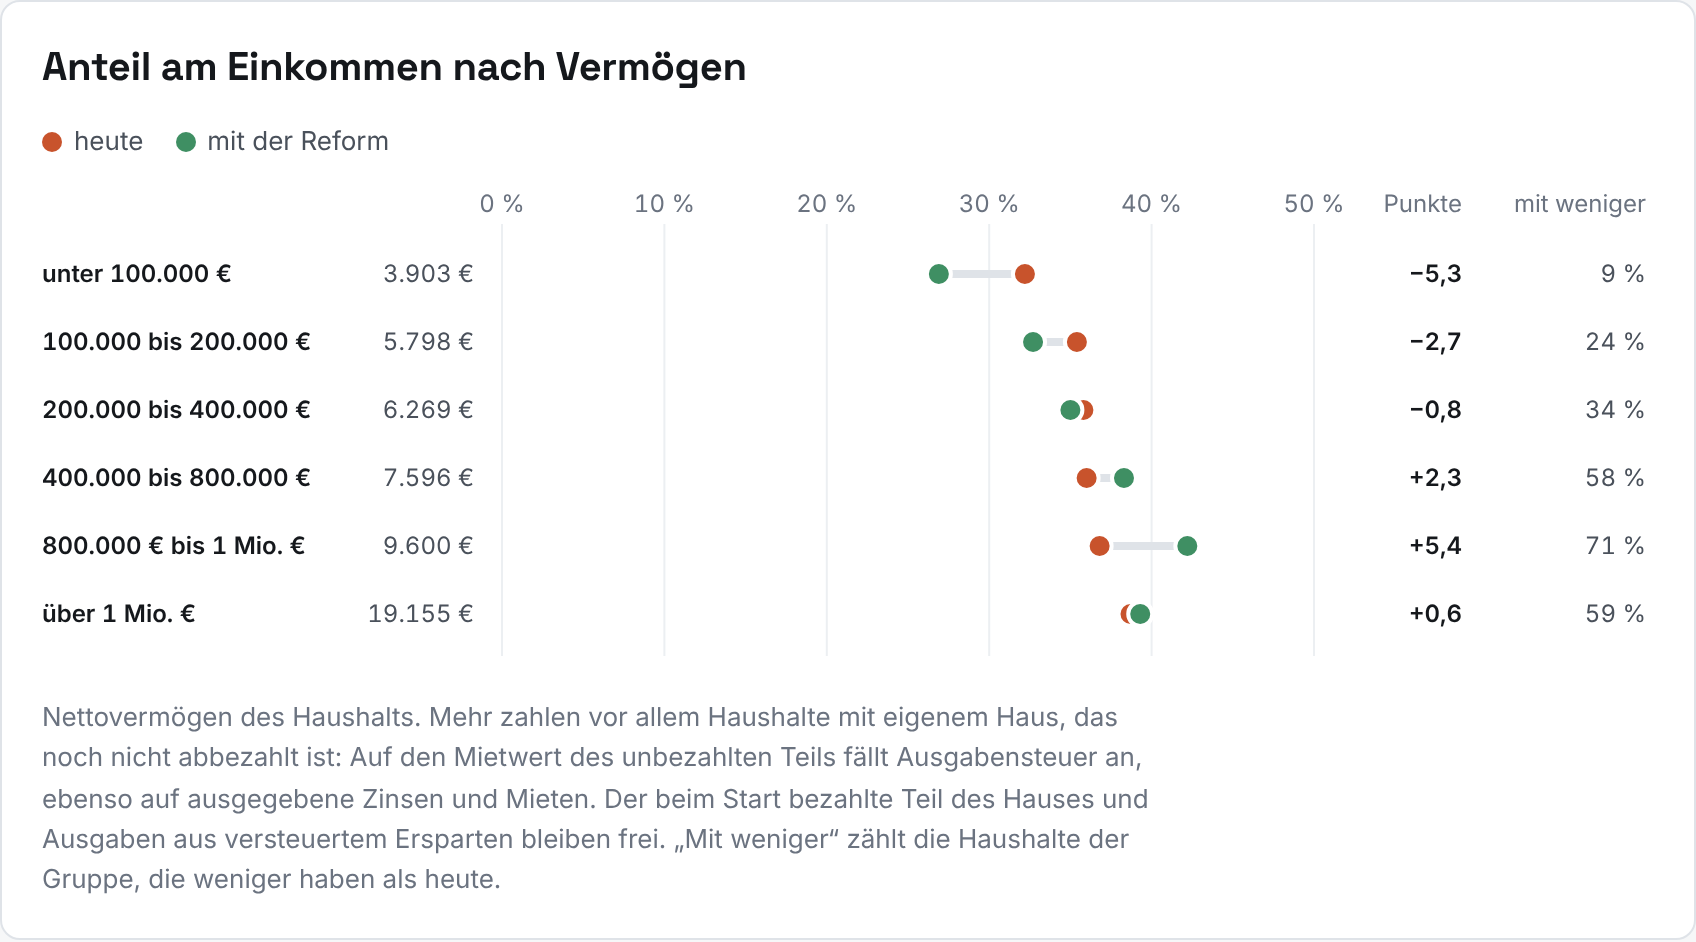
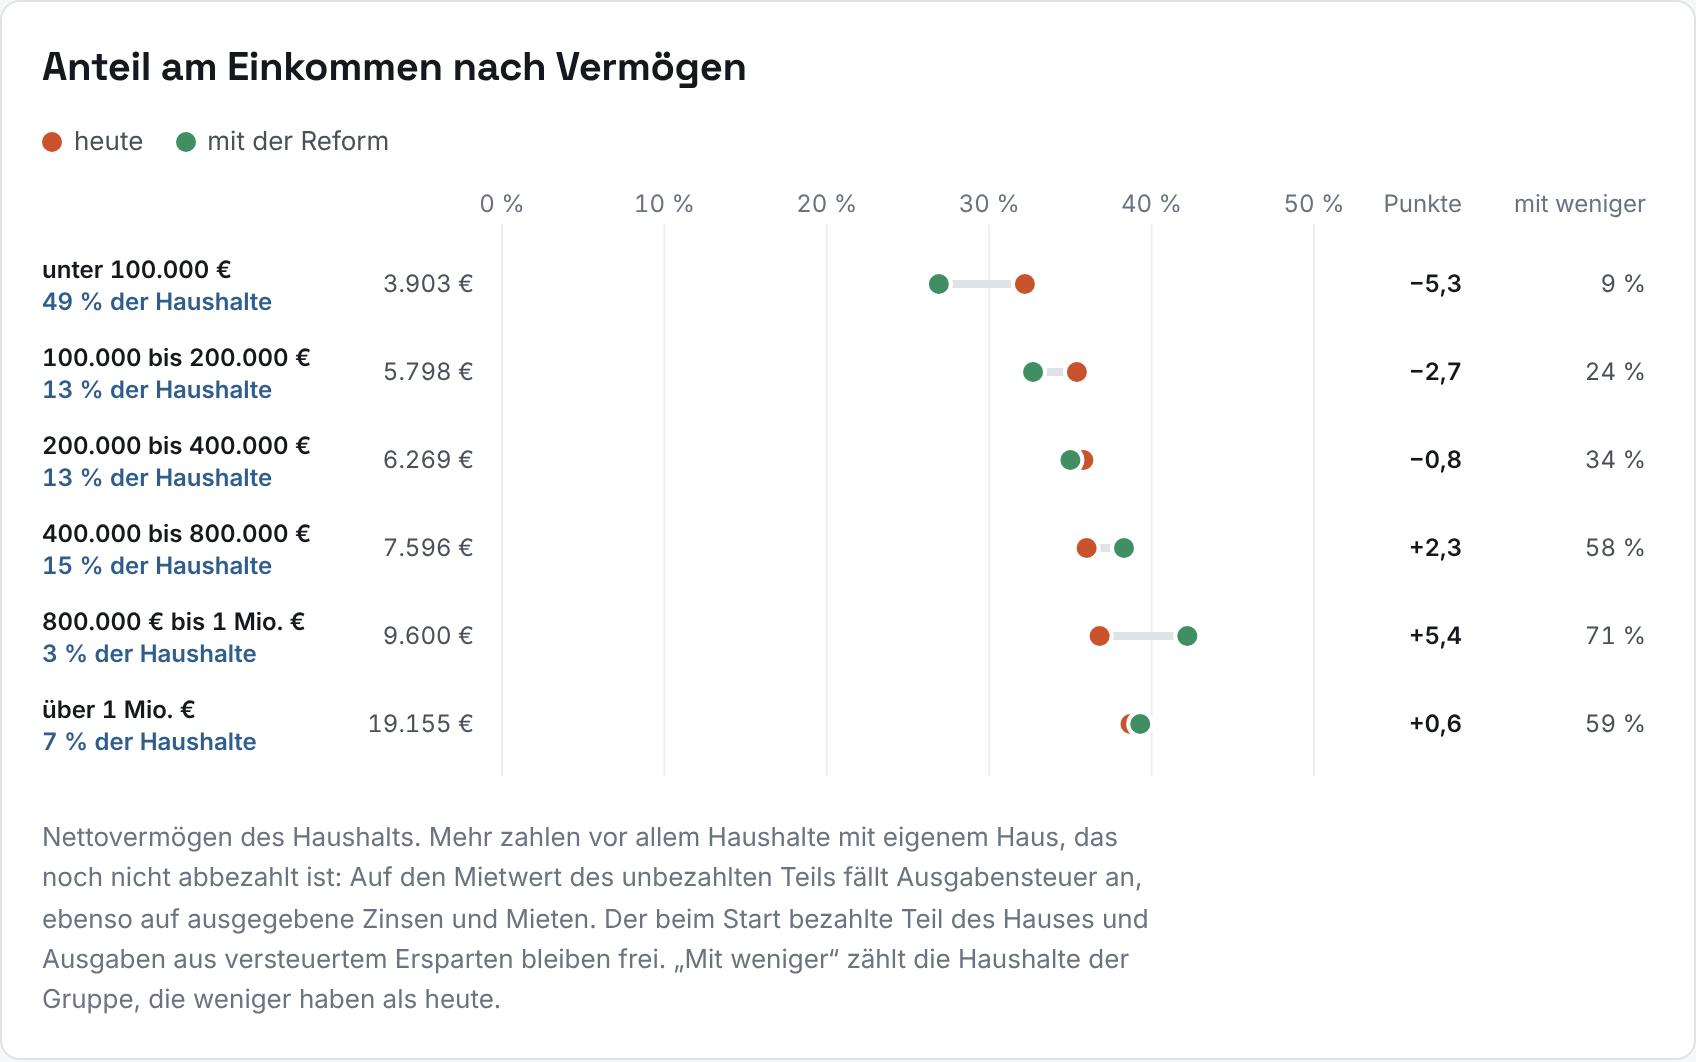
Vermögensgrafiken: Anteil der Haushalte unter jeder Gruppe
Unter jeder Vermögensgruppe steht in Blau, wie viel Prozent der Haushalte
dazugehören. Auf dem Handy heißt die Spaltenüberschrift kurz "Vermögen".

Claude-Session: https://claude.ai/code/session_012Y93VahXFS6g12MhaJDFsB

diff --git a/mikrosim/steuerlast/index.html b/mikrosim/steuerlast/index.html
@@ -6,7 +6,7 @@
 /* Layout: eine ruhige Spalte, je Frage eine Karte mit einer Grafik; Zahlen in Tabellenziffern */
 :root {
   --bg: #f6f7f8; --surface: #ffffff; --fg: #15181c; --fg2: #4a515b; --muted: #6b7380; --line: #dfe3e8; --grid: #eceff2;
-  --heute: #C8532C; --reform: #3F8F63; --minus: #c9502f;
+  --heute: #C8532C; --reform: #3F8F63; --minus: #c9502f; --anteil: #2F5D8C;
   --o1: #86b6ef; --o2: #3987e5; --o3: #184f95;
   --g3: #1F5A43; --g2: #3F8F63; --g1: #9FD8B0; --n0: #EDEBE4; --r1: #E9A58A; --r2: #C8532C; --r3: #8E3417;
   --tx-hell: #ffffff; --tx-dunkel: #15181c;
@@ -14,10 +14,10 @@
 }
 @media (prefers-color-scheme: dark) { :root:not([data-theme="light"]) {
   --bg: #121417; --surface: #1a1d21; --fg: #eef0f2; --fg2: #c2c7ce; --muted: #9aa1ab; --line: #2c3138; --grid: #24282e;
-  --heute: #D2643C; --reform: #4C9C70; --minus: #e0714f; --o1: #184f95; --o2: #3987e5; --o3: #9ec5f4; color-scheme: dark } }
+  --anteil: #8DB4E2; --heute: #D2643C; --reform: #4C9C70; --minus: #e0714f; --o1: #184f95; --o2: #3987e5; --o3: #9ec5f4; color-scheme: dark } }
 :root[data-theme="dark"] {
   --bg: #121417; --surface: #1a1d21; --fg: #eef0f2; --fg2: #c2c7ce; --muted: #9aa1ab; --line: #2c3138; --grid: #24282e;
-  --heute: #D2643C; --reform: #4C9C70; --minus: #e0714f; --o1: #184f95; --o2: #3987e5; --o3: #9ec5f4; color-scheme: dark }
+  --anteil: #8DB4E2; --heute: #D2643C; --reform: #4C9C70; --minus: #e0714f; --o1: #184f95; --o2: #3987e5; --o3: #9ec5f4; color-scheme: dark }
 * { box-sizing: border-box }
 body { background: var(--bg); color: var(--fg); font-family: var(--text); font-size: 15px; line-height: 1.55; margin: 0 }
 .wrap { max-width: 880px; margin: 0 auto; padding-block: 28px 56px; padding-left: max(16px, env(safe-area-inset-left, 0px)); padding-right: max(16px, env(safe-area-inset-right, 0px)); display: grid; gap: 20px }
@@ -44,6 +44,7 @@ p { margin: 0; max-width: 68ch }
 svg { display: block; width: 100%; height: auto; font-family: var(--text) }
 svg text { fill: var(--fg2); font-size: 12px; font-variant-numeric: tabular-nums }
 svg .stark { fill: var(--fg); font-weight: 600 }
+svg .anteil { fill: var(--anteil); font-size: 12px; font-weight: 600 }
 svg .leise { fill: var(--muted) }
 .hinweis { font-size: 13px; color: var(--muted) }
 a { color: var(--fg); text-decoration-color: var(--muted); text-underline-offset: 2px }
@@ -209,9 +210,11 @@ function punkte(g, xh, xr, y) {
   }
 }
 
-function hantel(ziel, zeilen, beschrift) {
+// Anteil der Haushalte einer Gruppe an allen Haushalten, als zweite Zeile unter dem Gruppennamen (Wunsch Tomas 14.11.)
+function anteilText(z, zeilen) { const n = zeilen.reduce((a, x) => a + x.haushalte_mio, 0); return de(100 * z.haushalte_mio / n, 0) + " % der Haushalte"; }
+function hantel(ziel, zeilen, beschrift, mitAnteil = false) {
   const W = Math.max(320, Math.round(ziel.clientWidth || 800)), eng = W < 600;
-  const links = eng ? 150 : 230, rechts = eng ? 44 : 170, zh = eng ? 42 : 34, oben = 26, H = oben + zeilen.length * zh + 10;
+  const links = eng ? 150 : 230, rechts = eng ? 44 : 170, zh = mitAnteil ? (eng ? 56 : 44) : (eng ? 42 : 34), oben = 26, H = oben + zeilen.length * zh + 10;
   const qR = z => lang ? z.quote_reform_lang : z.quote_reform;
   const max = Math.ceil(Math.max(...zeilen.map(z => Math.max(z.quote_heute, qR(z), z.quote_reform_lang))) / 10) * 10;
   const sx = v => links + (W - links - rechts) * v / max;
@@ -225,10 +228,12 @@ function hantel(ziel, zeilen, beschrift) {
     const g = el("g");
     g.append(el("rect", { x: 0, y: y - zh / 2, width: W, height: zh, fill: "transparent" }));
     if (eng) {
-      g.append(el("text", { x: 0, y: y - 3, class: "stark" }, z.name));
-      g.append(el("text", { x: 0, y: y + 13, class: "leise" }, beschrift(z) + " im Monat"));
+      g.append(el("text", { x: 0, y: y - (mitAnteil ? 10 : 3), class: "stark" }, z.name));
+      if (mitAnteil) g.append(el("text", { x: 0, y: y + 5, class: "anteil" }, anteilText(z, zeilen)));
+      g.append(el("text", { x: 0, y: y + (mitAnteil ? 19 : 13), class: "leise" }, beschrift(z) + " im Monat"));
     } else {
-      g.append(el("text", { x: 0, y: y + 4, class: "stark" }, z.name));
+      g.append(el("text", { x: 0, y: y + (mitAnteil ? -3 : 4), class: "stark" }, z.name));
+      if (mitAnteil) g.append(el("text", { x: 0, y: y + 13, class: "anteil" }, anteilText(z, zeilen)));
       g.append(el("text", { x: links - 14, y: y + 4, "text-anchor": "end" }, beschrift(z)));
     }
     g.append(el("line", { x1: sx(Math.min(h, r)), x2: sx(Math.max(h, r)), y1: y, y2: y, stroke: "var(--line)", "stroke-width": 4, "stroke-linecap": "round" }));
@@ -383,7 +388,7 @@ function aufbau() {
   const qH = z => mass === "v" ? z.wachstum_heute : z.sparquote_heute, qR = z => mass === "v" ? z.wachstum_reform : z.sparquote_reform;
   $("text7").textContent = mass === "v" ? "Um wie viel Prozent das Vermögen der Haushalte im Jahr durch Sparen wächst. Die Zeilen sind die Haushalte nach ihrem Vermögen: Haus, Wohnungen, Geld und Firmen, abzüglich Schulden." : "Wie viel Prozent ihres Einkommens die Haushalte im Jahr sparen. Die Zeilen sind die Haushalte nach ihrem Vermögen: Haus, Wohnungen, Geld und Firmen, abzüglich Schulden.";
   const W = Math.max(320, Math.round(ziel.clientWidth || 800)), eng = W < 600;
-  const links = eng ? 150 : 230, rechts = eng ? 8 : 130, zh = eng ? 42 : 34, oben = 26, H = oben + Z.length * zh + 10;
+  const links = eng ? 150 : 230, rechts = eng ? 8 : 130, zh = eng ? 56 : 44, oben = 26, H = oben + Z.length * zh + 10;
   const werte = Z.flatMap(z => [qH(z), qR(z)]);
   const schritt = mass === "v" ? 2 : 5;
   const lo = Math.floor(Math.min(0, ...werte) / schritt) * schritt, hi = Math.ceil(Math.max(...werte) / schritt) * schritt;
@@ -394,12 +399,12 @@ function aufbau() {
     svg.append(el("text", { x: sx(t), y: 12, "text-anchor": "middle", class: "leise" }, (t < 0 ? "−" : "") + Math.abs(t) + " %"));
   }
   if (!eng) svg.append(el("text", { x: W - 4, y: 12, "text-anchor": "end", class: "leise" }, "€ im Monat"));
-  svg.append(el("text", { x: 0, y: 12, class: "leise" }, "Vermögen des Haushalts"));
+  svg.append(el("text", { x: 0, y: 12, class: "leise" }, eng ? "Vermögen" : "Vermögen des Haushalts"));
   Z.forEach((z, k) => {
     const y = oben + k * zh + zh / 2, h = qH(z), r = qR(z), g = el("g");
     g.append(el("rect", { x: 0, y: y - zh / 2, width: W, height: zh, fill: "transparent" }));
-    if (eng) { g.append(el("text", { x: 0, y: y - 3, class: "stark" }, z.name)); g.append(el("text", { x: 0, y: y + 13, class: "leise" }, `${de(z.sparen_heute_monat)} → ${de(z.sparen_reform_monat)} € im Monat`)); }
-    else g.append(el("text", { x: 0, y: y + 4, class: "stark" }, z.name));
+    if (eng) { g.append(el("text", { x: 0, y: y - 10, class: "stark" }, z.name)); g.append(el("text", { x: 0, y: y + 5, class: "anteil" }, anteilText(z, Z))); g.append(el("text", { x: 0, y: y + 19, class: "leise" }, `${de(z.sparen_heute_monat)} → ${de(z.sparen_reform_monat)} € im Monat`)); }
+    else { g.append(el("text", { x: 0, y: y - 3, class: "stark" }, z.name)); g.append(el("text", { x: 0, y: y + 13, class: "anteil" }, anteilText(z, Z))); }
     g.append(el("line", { x1: sx(Math.min(h, r)), x2: sx(Math.max(h, r)), y1: y, y2: y, stroke: "var(--line)", "stroke-width": 4, "stroke-linecap": "round" }));
     punkte(g, sx(h), sx(r), y);
     if (!eng) g.append(el("text", { x: W - 4, y: y + 4, "text-anchor": "end" }, `${de(z.sparen_heute_monat)} → ${de(z.sparen_reform_monat)}`));
@@ -427,7 +432,7 @@ function tabelle(ziel, zeilen, erste) {
 function zeichne() {
   feld();
   hantel($("d1"), D.zehntel, z => de(z.einkommen_monat) + " €");
-  hantel($("d3"), D.vermoegen, z => de(z.einkommen_monat) + " €");
+  hantel($("d3"), D.vermoegen, z => de(z.einkommen_monat) + " €", true);
   anteile();
   quellen();
   aufbau();

diff --git a/mikrosim/steuerlast/vorlage.html b/mikrosim/steuerlast/vorlage.html
@@ -6,7 +6,7 @@
 /* Layout: eine ruhige Spalte, je Frage eine Karte mit einer Grafik; Zahlen in Tabellenziffern */
 :root {
   --bg: #f6f7f8; --surface: #ffffff; --fg: #15181c; --fg2: #4a515b; --muted: #6b7380; --line: #dfe3e8; --grid: #eceff2;
-  --heute: #C8532C; --reform: #3F8F63; --minus: #c9502f;
+  --heute: #C8532C; --reform: #3F8F63; --minus: #c9502f; --anteil: #2F5D8C;
   --o1: #86b6ef; --o2: #3987e5; --o3: #184f95;
   --g3: #1F5A43; --g2: #3F8F63; --g1: #9FD8B0; --n0: #EDEBE4; --r1: #E9A58A; --r2: #C8532C; --r3: #8E3417;
   --tx-hell: #ffffff; --tx-dunkel: #15181c;
@@ -14,10 +14,10 @@
 }
 @media (prefers-color-scheme: dark) { :root:not([data-theme="light"]) {
   --bg: #121417; --surface: #1a1d21; --fg: #eef0f2; --fg2: #c2c7ce; --muted: #9aa1ab; --line: #2c3138; --grid: #24282e;
-  --heute: #D2643C; --reform: #4C9C70; --minus: #e0714f; --o1: #184f95; --o2: #3987e5; --o3: #9ec5f4; color-scheme: dark } }
+  --anteil: #8DB4E2; --heute: #D2643C; --reform: #4C9C70; --minus: #e0714f; --o1: #184f95; --o2: #3987e5; --o3: #9ec5f4; color-scheme: dark } }
 :root[data-theme="dark"] {
   --bg: #121417; --surface: #1a1d21; --fg: #eef0f2; --fg2: #c2c7ce; --muted: #9aa1ab; --line: #2c3138; --grid: #24282e;
-  --heute: #D2643C; --reform: #4C9C70; --minus: #e0714f; --o1: #184f95; --o2: #3987e5; --o3: #9ec5f4; color-scheme: dark }
+  --anteil: #8DB4E2; --heute: #D2643C; --reform: #4C9C70; --minus: #e0714f; --o1: #184f95; --o2: #3987e5; --o3: #9ec5f4; color-scheme: dark }
 * { box-sizing: border-box }
 body { background: var(--bg); color: var(--fg); font-family: var(--text); font-size: 15px; line-height: 1.55; margin: 0 }
 .wrap { max-width: 880px; margin: 0 auto; padding-block: 28px 56px; padding-left: max(16px, env(safe-area-inset-left, 0px)); padding-right: max(16px, env(safe-area-inset-right, 0px)); display: grid; gap: 20px }
@@ -44,6 +44,7 @@ p { margin: 0; max-width: 68ch }
 svg { display: block; width: 100%; height: auto; font-family: var(--text) }
 svg text { fill: var(--fg2); font-size: 12px; font-variant-numeric: tabular-nums }
 svg .stark { fill: var(--fg); font-weight: 600 }
+svg .anteil { fill: var(--anteil); font-size: 12px; font-weight: 600 }
 svg .leise { fill: var(--muted) }
 .hinweis { font-size: 13px; color: var(--muted) }
 a { color: var(--fg); text-decoration-color: var(--muted); text-underline-offset: 2px }
@@ -209,9 +210,11 @@ function punkte(g, xh, xr, y) {
   }
 }
 
-function hantel(ziel, zeilen, beschrift) {
+// Anteil der Haushalte einer Gruppe an allen Haushalten, als zweite Zeile unter dem Gruppennamen (Wunsch Tomas 14.11.)
+function anteilText(z, zeilen) { const n = zeilen.reduce((a, x) => a + x.haushalte_mio, 0); return de(100 * z.haushalte_mio / n, 0) + " % der Haushalte"; }
+function hantel(ziel, zeilen, beschrift, mitAnteil = false) {
   const W = Math.max(320, Math.round(ziel.clientWidth || 800)), eng = W < 600;
-  const links = eng ? 150 : 230, rechts = eng ? 44 : 170, zh = eng ? 42 : 34, oben = 26, H = oben + zeilen.length * zh + 10;
+  const links = eng ? 150 : 230, rechts = eng ? 44 : 170, zh = mitAnteil ? (eng ? 56 : 44) : (eng ? 42 : 34), oben = 26, H = oben + zeilen.length * zh + 10;
   const qR = z => lang ? z.quote_reform_lang : z.quote_reform;
   const max = Math.ceil(Math.max(...zeilen.map(z => Math.max(z.quote_heute, qR(z), z.quote_reform_lang))) / 10) * 10;
   const sx = v => links + (W - links - rechts) * v / max;
@@ -225,10 +228,12 @@ function hantel(ziel, zeilen, beschrift) {
     const g = el("g");
     g.append(el("rect", { x: 0, y: y - zh / 2, width: W, height: zh, fill: "transparent" }));
     if (eng) {
-      g.append(el("text", { x: 0, y: y - 3, class: "stark" }, z.name));
-      g.append(el("text", { x: 0, y: y + 13, class: "leise" }, beschrift(z) + " im Monat"));
+      g.append(el("text", { x: 0, y: y - (mitAnteil ? 10 : 3), class: "stark" }, z.name));
+      if (mitAnteil) g.append(el("text", { x: 0, y: y + 5, class: "anteil" }, anteilText(z, zeilen)));
+      g.append(el("text", { x: 0, y: y + (mitAnteil ? 19 : 13), class: "leise" }, beschrift(z) + " im Monat"));
     } else {
-      g.append(el("text", { x: 0, y: y + 4, class: "stark" }, z.name));
+      g.append(el("text", { x: 0, y: y + (mitAnteil ? -3 : 4), class: "stark" }, z.name));
+      if (mitAnteil) g.append(el("text", { x: 0, y: y + 13, class: "anteil" }, anteilText(z, zeilen)));
       g.append(el("text", { x: links - 14, y: y + 4, "text-anchor": "end" }, beschrift(z)));
     }
     g.append(el("line", { x1: sx(Math.min(h, r)), x2: sx(Math.max(h, r)), y1: y, y2: y, stroke: "var(--line)", "stroke-width": 4, "stroke-linecap": "round" }));
@@ -383,7 +388,7 @@ function aufbau() {
   const qH = z => mass === "v" ? z.wachstum_heute : z.sparquote_heute, qR = z => mass === "v" ? z.wachstum_reform : z.sparquote_reform;
   $("text7").textContent = mass === "v" ? "Um wie viel Prozent das Vermögen der Haushalte im Jahr durch Sparen wächst. Die Zeilen sind die Haushalte nach ihrem Vermögen: Haus, Wohnungen, Geld und Firmen, abzüglich Schulden." : "Wie viel Prozent ihres Einkommens die Haushalte im Jahr sparen. Die Zeilen sind die Haushalte nach ihrem Vermögen: Haus, Wohnungen, Geld und Firmen, abzüglich Schulden.";
   const W = Math.max(320, Math.round(ziel.clientWidth || 800)), eng = W < 600;
-  const links = eng ? 150 : 230, rechts = eng ? 8 : 130, zh = eng ? 42 : 34, oben = 26, H = oben + Z.length * zh + 10;
+  const links = eng ? 150 : 230, rechts = eng ? 8 : 130, zh = eng ? 56 : 44, oben = 26, H = oben + Z.length * zh + 10;
   const werte = Z.flatMap(z => [qH(z), qR(z)]);
   const schritt = mass === "v" ? 2 : 5;
   const lo = Math.floor(Math.min(0, ...werte) / schritt) * schritt, hi = Math.ceil(Math.max(...werte) / schritt) * schritt;
@@ -394,12 +399,12 @@ function aufbau() {
     svg.append(el("text", { x: sx(t), y: 12, "text-anchor": "middle", class: "leise" }, (t < 0 ? "−" : "") + Math.abs(t) + " %"));
   }
   if (!eng) svg.append(el("text", { x: W - 4, y: 12, "text-anchor": "end", class: "leise" }, "€ im Monat"));
-  svg.append(el("text", { x: 0, y: 12, class: "leise" }, "Vermögen des Haushalts"));
+  svg.append(el("text", { x: 0, y: 12, class: "leise" }, eng ? "Vermögen" : "Vermögen des Haushalts"));
   Z.forEach((z, k) => {
     const y = oben + k * zh + zh / 2, h = qH(z), r = qR(z), g = el("g");
     g.append(el("rect", { x: 0, y: y - zh / 2, width: W, height: zh, fill: "transparent" }));
-    if (eng) { g.append(el("text", { x: 0, y: y - 3, class: "stark" }, z.name)); g.append(el("text", { x: 0, y: y + 13, class: "leise" }, `${de(z.sparen_heute_monat)} → ${de(z.sparen_reform_monat)} € im Monat`)); }
-    else g.append(el("text", { x: 0, y: y + 4, class: "stark" }, z.name));
+    if (eng) { g.append(el("text", { x: 0, y: y - 10, class: "stark" }, z.name)); g.append(el("text", { x: 0, y: y + 5, class: "anteil" }, anteilText(z, Z))); g.append(el("text", { x: 0, y: y + 19, class: "leise" }, `${de(z.sparen_heute_monat)} → ${de(z.sparen_reform_monat)} € im Monat`)); }
+    else { g.append(el("text", { x: 0, y: y - 3, class: "stark" }, z.name)); g.append(el("text", { x: 0, y: y + 13, class: "anteil" }, anteilText(z, Z))); }
     g.append(el("line", { x1: sx(Math.min(h, r)), x2: sx(Math.max(h, r)), y1: y, y2: y, stroke: "var(--line)", "stroke-width": 4, "stroke-linecap": "round" }));
     punkte(g, sx(h), sx(r), y);
     if (!eng) g.append(el("text", { x: W - 4, y: y + 4, "text-anchor": "end" }, `${de(z.sparen_heute_monat)} → ${de(z.sparen_reform_monat)}`));
@@ -427,7 +432,7 @@ function tabelle(ziel, zeilen, erste) {
 function zeichne() {
   feld();
   hantel($("d1"), D.zehntel, z => de(z.einkommen_monat) + " €");
-  hantel($("d3"), D.vermoegen, z => de(z.einkommen_monat) + " €");
+  hantel($("d3"), D.vermoegen, z => de(z.einkommen_monat) + " €", true);
   anteile();
   quellen();
   aufbau();
